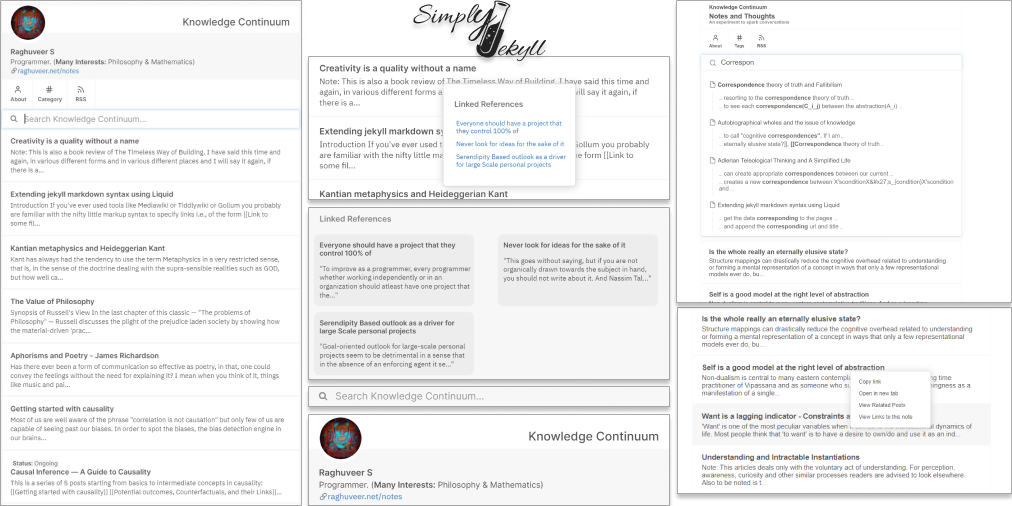
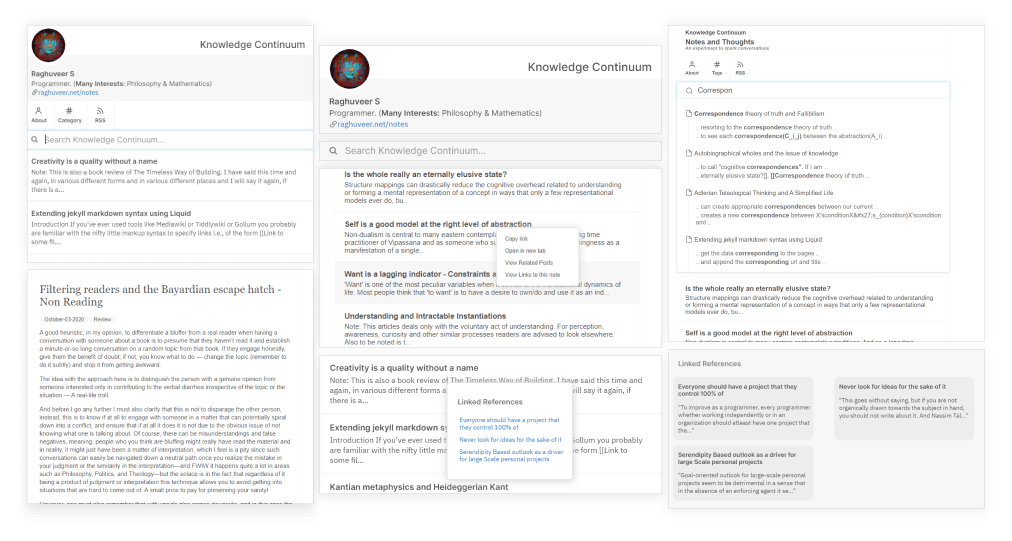
Fixed readme images

Changed region(s): [[0.0, 0.0, 1.0, 1.0], [0.1838, 0.0296, 0.3063, 0.0889], [0.9802, 0.0, 1.0, 0.0296]]

diff --git a/README.md b/README.md
@@ -1,20 +1,27 @@
-## Simply Jekyll - A simple jekyll theme
-
-[![Netlify Status](https://api.netlify.com/api/v1/badges/42c75d17-5f01-4aea-9da3-4538ba92122e/deploy-status)](https://app.netlify.com/sites/simply-jekyll/deploys)
+<p align="right">
 <a href="https://jekyll-themes.com">
     <img src="https://img.shields.io/badge/featured%20on-JT-red.svg" height="20" alt="Jekyll Themes Shield" >
 </a>
+</p>
+<br><br>
 
-![simply_jekyll](./assets/img/../../../_site/assets/img/logo.png)
 
+<p align="center">
+    <p align="center">
+    <img width="250px" src="./assets/img/logo.png">
+    </p><hr>
+    <p align="center">Simply Jekyll is a simple yet highly functional jekyll-based theme that combines the best of different worlds. It is a minimal and distraction free theme that strives to provide maximum value all without holding back on any essential features that a user would benefit from or would desire for. This is an evolving project and is garanteed to be maintained at least for quite some time as I myself am a beneficiary of this theme and the project.</p>
+    <p align="center"><strong><a href="https://simply-jekyll.netlify.app/">See it in action!</a></strong></p>
+    <br><br><br>
+</p>
 
-Simply Jekyll is a simple yet highly functional jekyll-based theme that combines the best of different worlds. It is a minimal and distraction free theme that strives to provide maximum value all without holding back on any essential features that a user would benefit from or would desire for. This is an evolving project and is garanteed to be maintained at least for quite some time as I myself am a beneficiary of this theme and the project.
+<p align="center">
+<img src="./assets/img/end_result.png">
+</p>
 
-Preview the template here: [Simply-Jekyll](https://simply-jekyll.netlify.app/)
+## Feature Overview
 
-I wrote a tutorial explaining how to set it up: ["How to setup simply-jekyll"](https://simply-jekyll.netlify.app/posts/setup)
-
-### Feature Overview
+[View the documentation(f)](https://simply-jekyll.netlify.app/posts/explore) for feature information.
 
 - Based on Jekyll, a static website generator
 - Creates backlinks to other notes automatically
@@ -26,41 +33,43 @@ I wrote a tutorial explaining how to set it up: ["How to setup simply-jekyll"](h
 - Supports Markdown or HTML notes
 
 
-<table>
-  <tr>
-    <th><b>Feed Structure</b></th>
-    <th><b>Linked References(Backlinks)</b></th>
-    <th><b>Context Menu</b></th>
-  </tr>
-  
-  <tr>
-    <td><img alt="feed" src="./assets/img/feed.png" /></td>
-    <td><img alt="backlinks" src="./assets/img/backlinks.png" /></td>
-    <td><img alt="contextmenu" src="./assets/img/context_menu.png" /></td>
-</tr>
+## Installation
 
-<tr>
-    <th><b>Profile Board</b></th>
-    <th><b>Search with Context</b></th>
-    <th><b>Header w/ Profile</b></th>
-</tr>
+[View the documentation(i)](https://simply-jekyll.netlify.app/posts/setup) for setup and installation information.
 
-<tr>
-    <td><img  alt="profile" src="./assets/img/profile_board.png" /></td>
-    <td><img  alt="search" src="./assets/img/search_with_preview.png" /></td>
-    <td><img  alt="profileless" src="./assets/img/site_without_profile.png" /></td>
-</tr>
+Hopefully there will be an easier process soon.
 
-<tr>
-    <th><b>Transclusion</b></th>
-    <th><b>Highlighting</b></th>
-    <th><b>Pagepreview</b></th>
-</tr>
+## Usage
 
-<tr>
-    <td><img  alt="transclusion" src="./assets/img/transclusion.JPG" /></td>
-    <td><img  alt="highlighting" src="./assets/img/highlighting.JPG" /></td>
-    <td><img  alt="pagepreview" src="./assets/img/pagepreview.png" /></td>
-</tr>
+[View the documentation(u)](https://simply-jekyll.netlify.app/posts/usage) for usage information.
 
-</table>
+## Contributing
+
+Bug reports and pull requests are welcome on GitHub at https://github.com/raghuveerdotnet/simply-jekyll. This project is intended to be a safe, welcoming space for collaboration, and contributors are expected to adhere to the [Contributor Covenant](http://contributor-covenant.org) code of conduct.
+
+### Submitting code changes:
+
+- Open a [Pull Request](https://github.com/raghuveerdotnet/simply-jekyll/pulls)
+- Ensure all CI tests pass
+- Await code review
+
+### Design and development principles of this theme:
+
+1. As few dependencies as possible
+2. No build script needed
+3. First class mobile experience
+4. Make the content shine
+
+## Development
+
+To set up your environment to develop this theme, run `bundle install`.
+
+Your theme is set up just like a normal Jekyll site! To test your theme, run `bundle exec jekyll serve` and open your browser at `http://localhost:4000`. This starts a Jekyll server using your theme. Add pages, documents, data, etc. like normal to test your theme's contents. As you make modifications to your theme and to your content, your site will regenerate and you should see the changes in the browser after a refresh, just like normal.
+
+When the theme is released, only the files in `_layouts`, `_includes`, and `assets` tracked with Git will be released.
+
+## License
+
+The theme is available as open source under the terms of the [MIT License](http://opensource.org/licenses/MIT).
+
+
